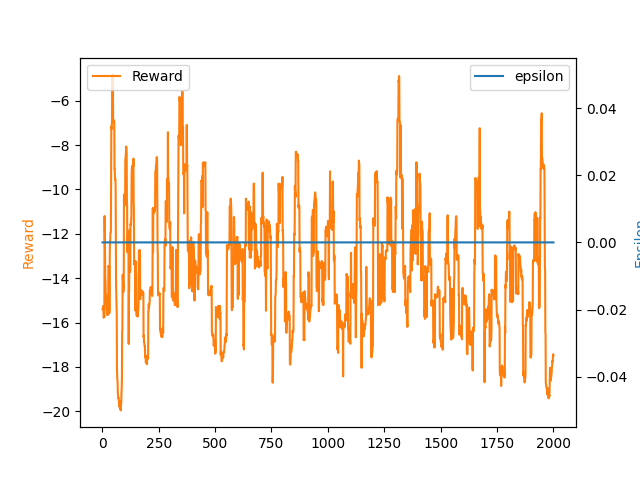
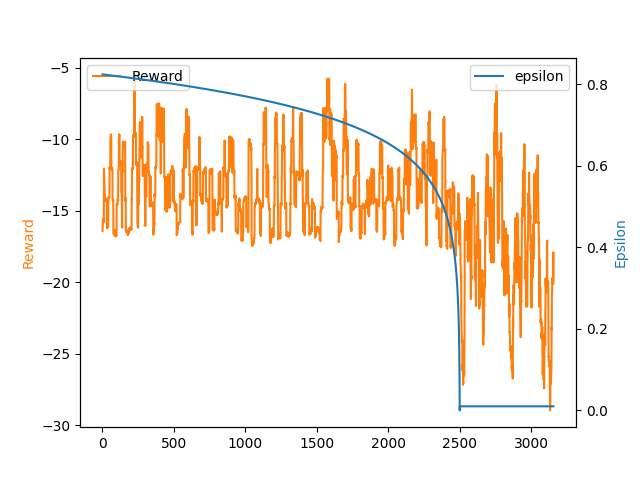
Current

diff --git a/sumo_mmrl/agent/driver_agent.py b/sumo_mmrl/agent/driver_agent.py
@@ -19,13 +19,15 @@ RIGHT = "r"
 
 PATH = "/Models/model.pt"
 
+TAU = 0.005
+
 
 class Dagent:
 
     def __init__(self, state_size, action_size, path) -> None:
         self.path = path
         self.direction_choices = [STRAIGHT, TURN_AROUND, RIGHT, LEFT]
-        self.memory = deque(maxlen=50_000)
+        self.memory = deque(maxlen=20_000)
         self.gamma = 0.95
         self.epsilon = 1
         self.epsilon_max = 1
@@ -37,13 +39,26 @@ class Dagent:
             "cuda" if T.cuda.is_available() else "cpu"
         )
 
+        self.policy_net = dqn.DQN(state_size, action_size)
+        self.target_net = dqn.DQN(state_size, action_size)
+        
         if os.path.exists(path + PATH):
-            self.policy_net = dqn.DQN(state_size, action_size)
-            self.policy_net.load_state_dict(T.load(path + PATH))
-            self.policy_net.eval()
-        else:
-            self.policy_net = dqn.DQN(state_size, action_size)
+            self.target_net.load_state_dict(T.load(path + PATH))
+            # self.policy_net.eval()
+
+        # self.policy_net = dqn.DQN(state_size, action_size)
+        # self.target_net = dqn.DQN(state_size, action_size)
         self.policy_net.to(device)
+        self.target_net.to(device)
+
+        
+        self.loss_fn = nn.HuberLoss()
+        self.optimizer = optim.RMSprop(self.policy_net.parameters(),
+                                  lr=self.learning_rate,)
+        # self.optimizer = optim.Adam(self.policy_net.parameters(),
+        #                        lr=self.learning_rate,)
+        # # optimizer = optim.AdamW(self.policy_net.parameters(),
+        #                         lr=self.learning_rate, amsgrad=True)
         
     def remember(self, state, action, reward, next_state, done):
 
@@ -83,45 +98,42 @@ class Dagent:
         return action, self.direction_choices.index(action), valid
 
     def replay(self, batch_size):
-        
-        loss_fn = nn.HuberLoss()
-        # optimizer = optim.RMSprop(self.policy_net.parameters(),
-        #                           lr=self.learning_rate,)
-        # optimizer = optim.Adam(self.policy_net.parameters(),
-        #                        lr=self.learning_rate,)
-        optimizer = optim.AdamW(self.policy_net.parameters(),
-                                lr=self.learning_rate, amsgrad=True)
 
         minibatch = random.sample(self.memory, batch_size)
 
         for state, action, reward, new_state, stage in minibatch:
-            optimizer.zero_grad(set_to_none=True)
+            self.optimizer.zero_grad(set_to_none=True)
             if stage != "done":
-                new_state_policy = self.policy_net(new_state)
+                new_state_policy = self.target_net(new_state)
                 adjusted_reward = reward + self.gamma * max(new_state_policy)
-                # output = self.policy_net(state)
-                output = new_state_policy
-                target = output.clone()
+                output = self.policy_net(state)
+                # output = new_state_policy
+                target = new_state_policy
                 target[action] = adjusted_reward
-                
+
             else:
                 output = self.policy_net(state)
-                target = output.clone()
+                # target = output.clone()
+                target = self.target_net(state)
                 target[action] = reward
 
-            loss = loss_fn(output, target)
+            loss = self.loss_fn(output, target)
             loss.backward()
-            optimizer.step()
-            optimizer.zero_grad()
+            # T.nn.utils.clip_grad_value_(self.policy_net.parameters(), 100)
+            self.optimizer.step()
+            # self.optimizer.zero_grad()
+
+    def soft_update(self):
+        target_net_state_dict = self.target_net.state_dict()
+        policy_net_state_dict = self.policy_net.state_dict()
+        for key in policy_net_state_dict:
+            target_net_state_dict[key] = policy_net_state_dict[key]*TAU + target_net_state_dict[key]*(1-TAU)
+        self.target_net.load_state_dict(target_net_state_dict)
+        
 
     def save(self):
         T.save(self.policy_net.state_dict(), self.path + PATH)
 
-
-
-
-
-        
 
     def epsilon_decay(self):
 

diff --git a/sumo_mmrl/environment/env.py b/sumo_mmrl/environment/env.py
@@ -41,7 +41,7 @@ class Env:
         self.agent_step = 0
         self.accumulated_reward = 0
         self.reward = 0
-        self.state = []
+
 
         self.make_choice_flag = False  # changes if agent is in a valid
         # state to make a decison:
@@ -135,7 +135,7 @@ class Env:
         state.extend(outmask)
         self.stage = "pickup"
 
-        return self.state, self.stage, choices
+        return state, self.stage, choices
 
     def nullstep(self):
         vedge = self.vehicle.get_road()
@@ -173,10 +173,10 @@ class Env:
             # self.reward += 2
         elif self.old_dist < edge_distance:
             new_dist_check = -1
-            # self.reward += -1.5
+            self.reward += -0.2
         else:
-            new_dist_check = 0
-            # self.reward += -1
+            new_dist_check = -1
+            self.reward += -0.15
 
         if validator == 1:
             if self.make_choice_flag:
@@ -234,15 +234,16 @@ class Env:
                         self.make_choice_flag = True
                         self.reward += 100
 
-            self.state = []
-            self.state.extend(vedge_loc)
-            self.state.extend(dest_edge_loc)
-            self.state.append(self.sumo.simulation.getTime())
-            self.state.append(new_dist_check)
-            self.state.extend(outmask)
+            state = []
+            state.extend(vedge_loc)
+            state.extend(dest_edge_loc)
+            state.append(self.sumo.simulation.getTime())
+            state.append(edge_distance)
+            # state.append(new_dist_check)
+            state.extend(outmask)
             self.old_edge = vedge
             self.old_dist = edge_distance
-            return self.state, self.reward, self.stage, choices
+            return state, self.reward, self.stage, choices
     
         choices = self.vehicle.get_out_dict()
         (
@@ -258,17 +259,18 @@ class Env:
         self.reward += -15
         self.make_choice_flag = False
 
-        self.state = []
-        self.state.extend(vedge_loc)
-        self.state.extend(dest_edge_loc)
-        self.state.append(self.sumo.simulation.getTime())
-        self.state.append(new_dist_check)
-        self.state.extend(outmask)
+        state = []
+        state.extend(vedge_loc)
+        state.extend(dest_edge_loc)
+        state.append(self.sumo.simulation.getTime())
+        state.append(edge_distance)
+        # state.append(new_dist_check)
+        state.extend(outmask)
         self.old_edge = vedge
         self.old_dist = edge_distance
         self.accumulated_reward += self.reward
 
-        return self.state, self.reward, self.stage, choices
+        return state, self.reward, self.stage, choices
 
     def render(self, mode):
         if mode == "gui":

diff --git a/test.py b/test.py
@@ -2,10 +2,10 @@ from sumo_mmrl import Dagent
 from sumo_mmrl.environment.env import Env
 
 # import time
-EPISODES = 2_000
+EPISODES = 5_000
 STEPS = 1000
 BATCH_SIZE = 64
-MIN_MEMORY = 1000
+MIN_MEMORY = 2000
 EXPERIMENT_PATH = "Experiments/3x3"
 SUMOCONFIG = "/Nets/3x3b.sumocfg"
 NUM_VEHIC = 1
@@ -31,7 +31,6 @@ def main():
             (action, action_index, validator) = dagent.choose_action(
                 state, legal_actions)
         
-
             (next_state, new_reward, stage,
              legal_actions) = env.step(action, validator)
 
@@ -39,17 +38,19 @@ def main():
             dagent.remember(state, action_index, new_reward, next_state, stage)
             state = next_state
 
-            if len(dagent.memory) > BATCH_SIZE:
+            if len(dagent.memory) > MIN_MEMORY:
                 dagent.replay(BATCH_SIZE)
+            if EPISODES % 10 == 0:
+                dagent.soft_update()
 
         # dagent.eps_linear(EPISODES)
-        dagent.epsilon_null()
+        # dagent.epsilon_null()
 
-        # if episode < (0.5 * EPISODES):
-        #     dagent.epsilon_decay_3(episode, (0.5 * EPISODES))
+        if episode < (0.5 * EPISODES):
+            dagent.epsilon_decay_3(episode, (0.5 * EPISODES))
 
-        # else:
-        #     dagent.epsilon_decay_2(episode, (0.5 * EPISODES))
+        else:
+            dagent.epsilon_decay_2(episode, (0.5 * EPISODES))
 
         env.close(episode, dagent.epsilon,
                   accumulated_reward)

diff --git a/sumo_mmrl/agent/dqn.py b/sumo_mmrl/agent/dqn.py
@@ -12,12 +12,12 @@ class DQN(nn.Module):
         self.device = T.device(  # pylint: disable=E1101
             "cuda" if T.cuda.is_available() else "cpu"
         )
-        self.layer1 = nn.Linear(state_size, 64)
+        self.layer1 = nn.Linear(state_size, 16)
 
-        self.layer2 = nn.Linear(64, 16)
+        self.layer2 = nn.Linear(16, 8)
         # self.layer2b = nn.Linear(64, 32)
 
-        self.layer3 = nn.Linear(16, action_size)
+        self.layer3 = nn.Linear(8, action_size)
 
     def forward(self, x_net):
 
